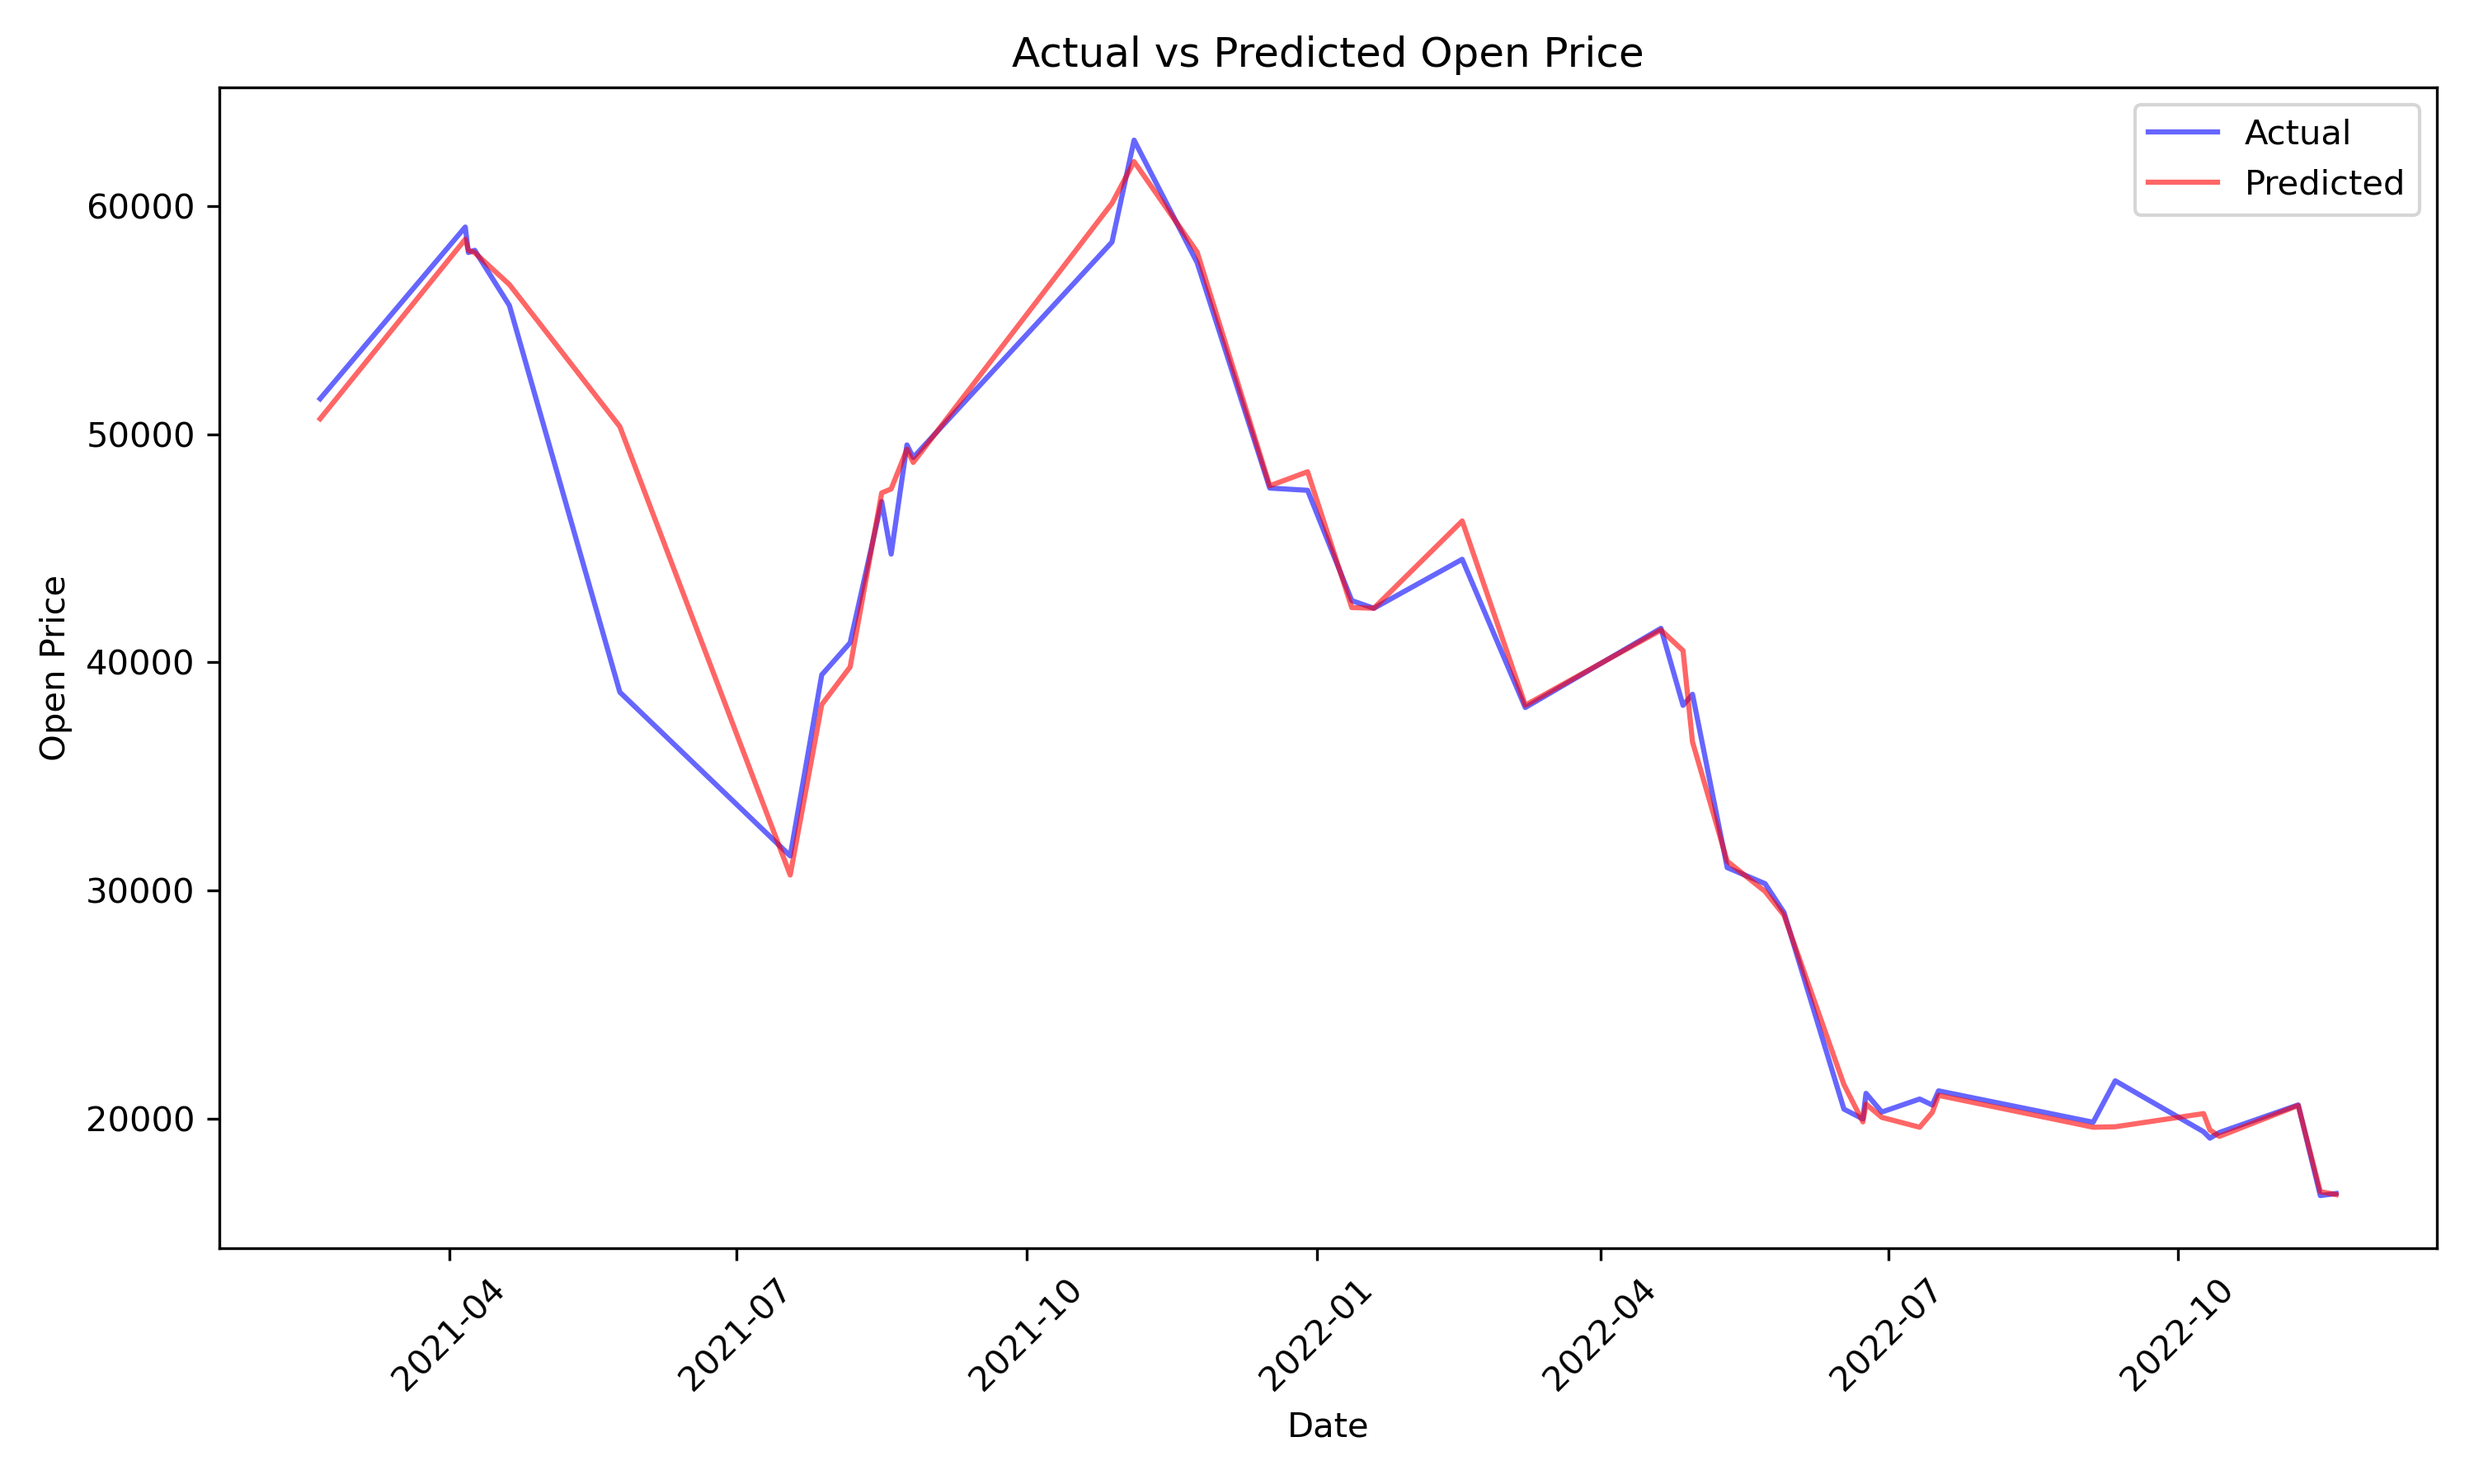
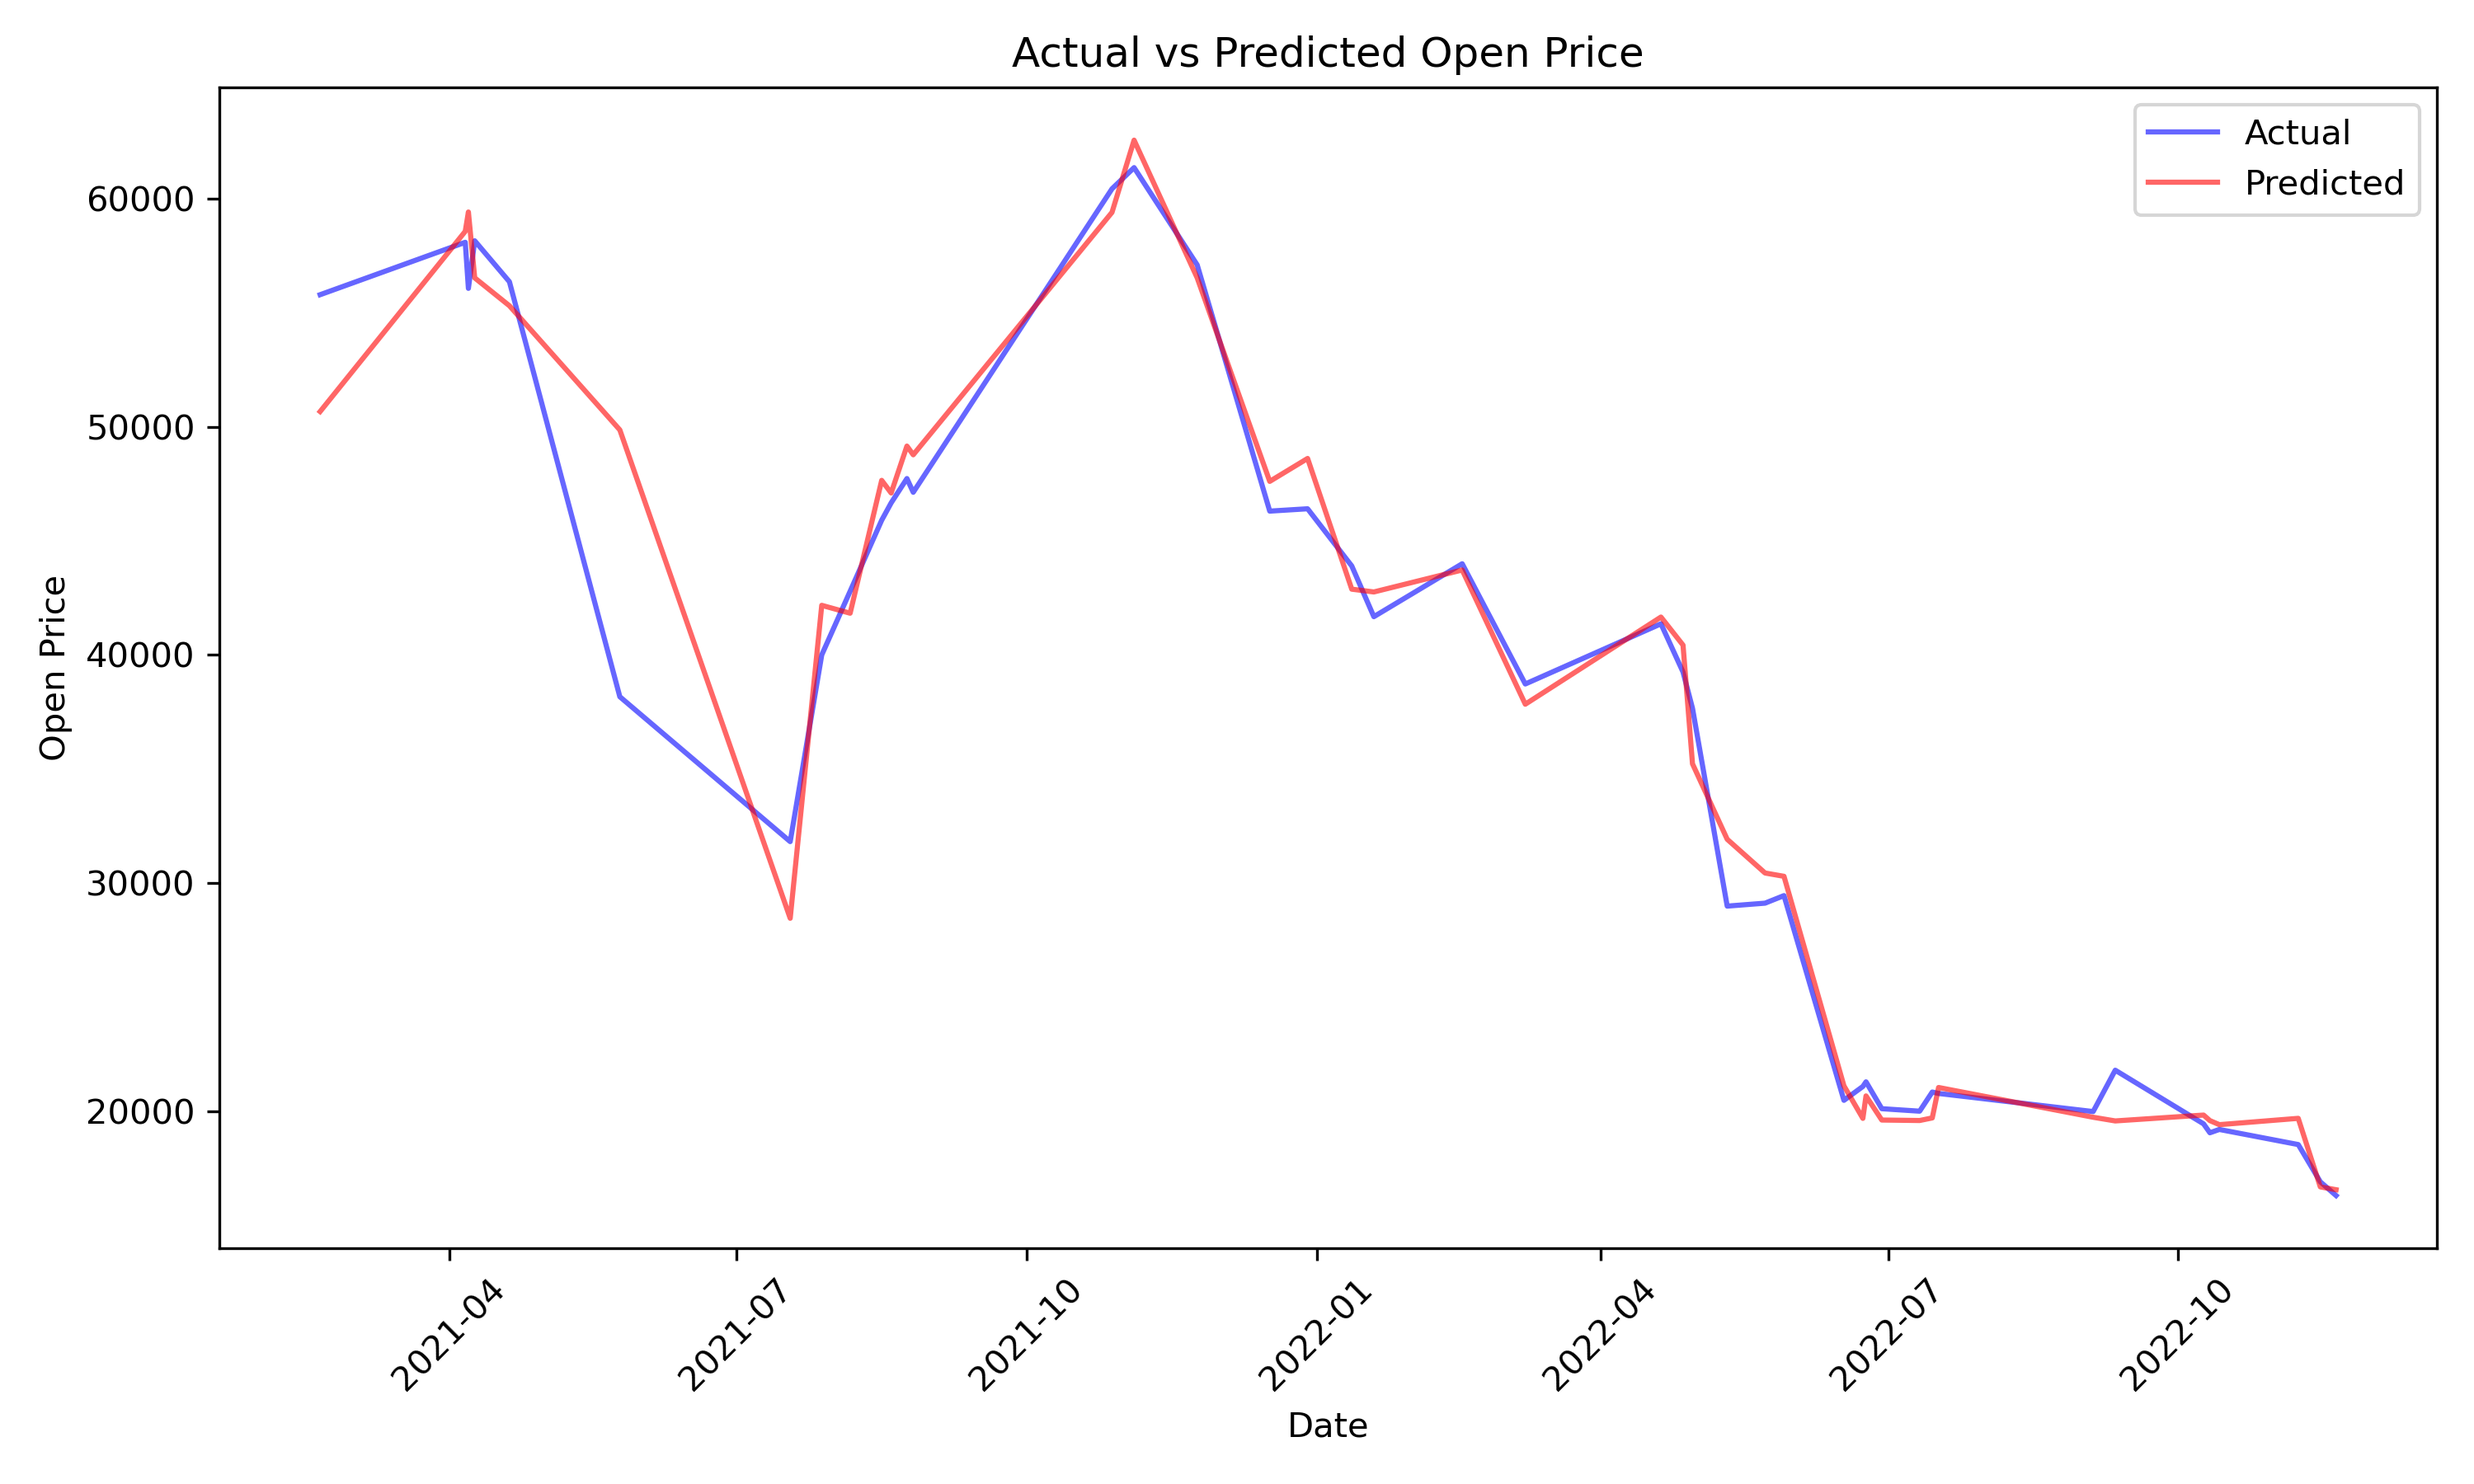
RF without sentiment

diff --git a/Correlation_Analysis/random_forest_no_sentiment.py b/Correlation_Analysis/random_forest_no_sentiment.py
@@ -1,5 +1,5 @@
 # @Author  : Sixing Wu
-# @Time    : 2024/11/9
+# @Time    : 2024/12/3
 # @Mac, Python 3.11
 # @Function: Using sentiment scores, with the previous day's data (optional) of open, close, high,
 # low, market cap, and volume to predict the next day's open price by random forest
@@ -23,7 +23,7 @@ def random_forest_prediction(data, feature):
     daily_info = data_df.copy()
 
     # Shift the features to get the previous day's data for each row
-    feature_with_sentiment = feature + ['sentiment_score']
+    feature_with_sentiment = feature
     variables = []
 
     for x in feature_with_sentiment:
@@ -69,7 +69,7 @@ def random_forest_prediction(data, feature):
     plt.ylabel('Open Price')
     plt.xticks(rotation=45)
     plt.tight_layout()
-    plt.savefig('random_forest_prediction.png', format='png', dpi=300)
+    plt.savefig('RF_without_sentiment.png', format='png', dpi=300)
     plt.show()
 
 # Run the function
